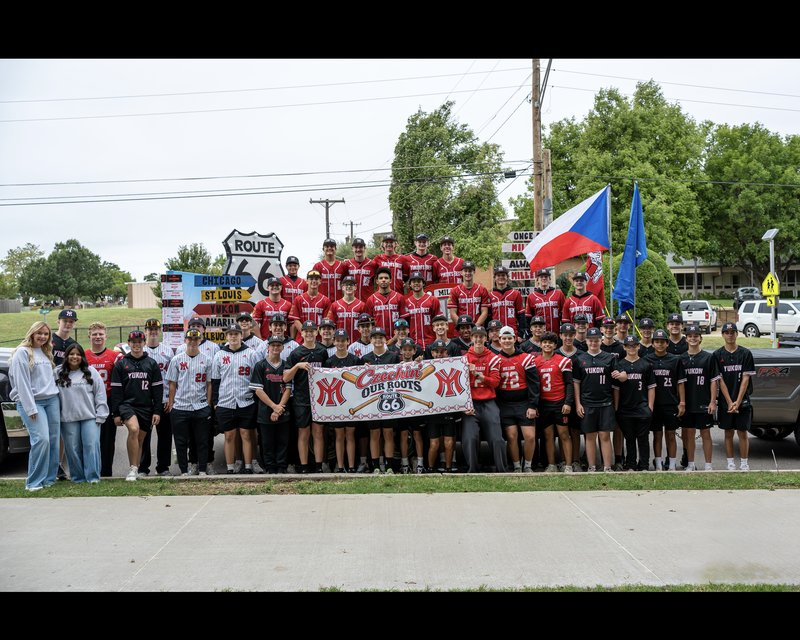
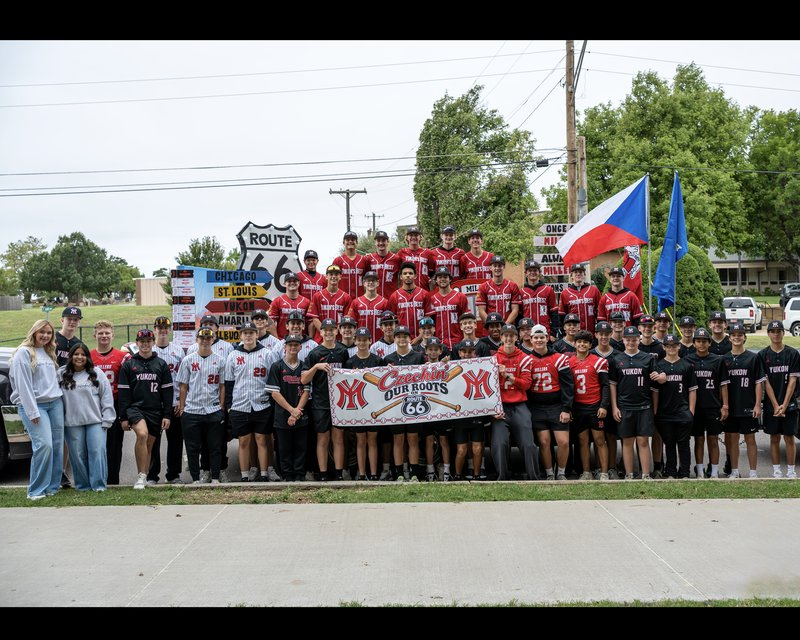
Balance the Czech Festival team photo left to right.
Crops off the extra truck and road on the right so the group has similar space on both sides.

diff --git a/src/lib/news-czech-festival.ts b/src/lib/news-czech-festival.ts
@@ -8,13 +8,13 @@ export const czechFestivalStory = {
   excerpt:
     "Yukon Miller Baseball was proud to once again take part in one of our community’s favorite traditions, the 60th Annual Oklahoma Czech Festival Parade in downtown Yukon.",
   image: {
-    src: "/images/news/czech-festival-parade-2026-tight.jpg",
+    src: "/images/news/czech-festival-parade-2026-tight2.jpg",
     alt: "The Yukon Miller Baseball program together in front of the Czech Festival Parade float and Czechin’ Our Roots banner",
     width: 1600,
-    height: 635,
+    height: 676,
     focus: "50% 55%",
     banner: {
-      src: "/images/news/czech-festival-parade-2026-banner2.jpg",
+      src: "/images/news/czech-festival-parade-2026-banner3.jpg",
       width: 1600,
       height: 680,
       focus: "50% 48%",

diff --git a/src/lib/og-cover.tsx b/src/lib/og-cover.tsx
@@ -26,6 +26,8 @@ const articleOgSlugs = new Set([
 const articleOgFiles: Record<string, string> = {
   "gunner-fletcher-southwestern-christian":
     "/images/og/gunner-fletcher-southwestern-christian-eagle.jpg",
+  "czech-festival-parade-2026":
+    "/images/og/czech-festival-parade-2026-balance.jpg",
 };
 
 export function ogShareImage(
